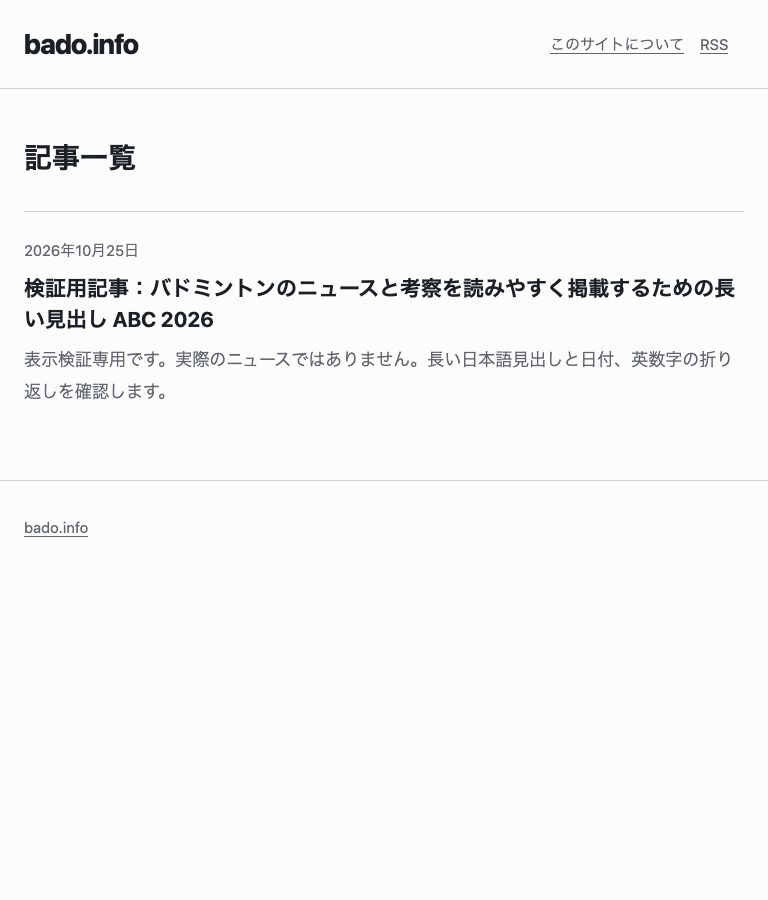
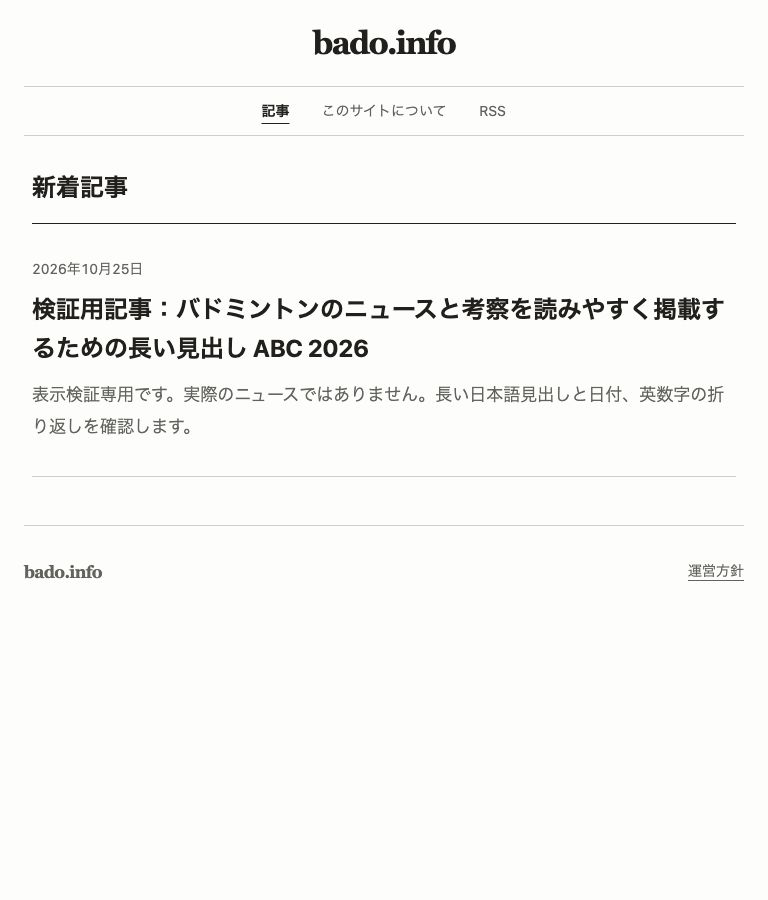
Redesign publication masthead and article typography

diff --git a/src/styles/global.css b/src/styles/global.css
@@ -1,24 +1,24 @@
-@import '@radix-ui/colors/slate.css';
-@import '@radix-ui/colors/teal.css';
+@import '@radix-ui/colors/sand.css';
+@import '@radix-ui/colors/jade.css';
 
 :root {
-  --background: var(--slate-1);
-  --text: var(--slate-12);
-  --muted: var(--slate-11);
-  --border: var(--slate-7);
-  --link: var(--teal-12);
-  --focus: var(--teal-10);
-  --text-small: .9375rem;
+  --background: var(--sand-1);
+  --text: var(--sand-12);
+  --muted: var(--sand-11);
+  --border: var(--sand-7);
+  --link: var(--jade-12);
+  --focus: var(--jade-10);
+  --text-small: .875rem;
   --text-body: 1.0625rem;
-  --text-heading: 1.3125rem;
-  --text-title: 1.75rem;
+  --text-heading: 1.5rem;
+  --text-title: 2.5rem;
   --space-1: 8px;
   --space-2: 16px;
   --space-3: 24px;
   --space-4: 32px;
   --space-5: 48px;
   --page-width: 960px;
-  --reading-width: 720px;
+  --reading-width: 704px;
   --rule: .5px;
   font-family: -apple-system, BlinkMacSystemFont, 'Hiragino Kaku Gothic ProN', Meiryo, sans-serif;
   color: var(--text);
@@ -28,50 +28,65 @@
 
 * { box-sizing: border-box; }
 body { margin: 0; font-size: var(--text-body); }
-a { color: var(--link); text-underline-offset: .2em; overflow-wrap: anywhere; }
+a { color: var(--link); text-underline-offset: .25em; overflow-wrap: anywhere; }
 a:hover { text-decoration-thickness: 2px; }
 :focus-visible { outline: 3px solid var(--focus); outline-offset: 4px; }
-.shell { max-width: var(--page-width); margin-inline: auto; padding-inline: var(--space-4); }
-.site-header { border-bottom: var(--rule) solid var(--border); }
-.header-inner { display: flex; align-items: center; justify-content: space-between; gap: var(--space-3); min-height: 88px; }
-.brand { font-size: var(--text-title); font-weight: 750; letter-spacing: -.04em; color: var(--text); text-decoration: none; }
-nav { display: flex; gap: var(--space-3); flex-wrap: wrap; }
-nav a { display: inline-flex; align-items: center; min-width: 44px; min-height: 44px; font-size: var(--text-small); color: var(--muted); }
-main { padding-block: var(--space-5); }
-h1 { font-size: var(--text-title); margin: 0 0 var(--space-4); }
-h2 { font-size: var(--text-heading); margin: var(--space-4) 0 var(--space-2); }
-h3, h4, h5, h6 { font-size: var(--text-body); margin: var(--space-3) 0 var(--space-2); }
-h1, h2, h3, h4, h5, h6 { line-height: 1.5; overflow-wrap: anywhere; }
+.shell { width: min(var(--page-width), calc(100% - 80px)); margin-inline: auto; }
+.masthead { padding-top: var(--space-4); text-align: center; }
+.wordmark { display: inline-block; margin-bottom: var(--space-3); font: 700 var(--text-title)/1.2 Georgia, 'Times New Roman', serif; letter-spacing: -.055em; color: var(--text); text-decoration: none; }
+.site-nav { display: flex; justify-content: center; flex-wrap: wrap; column-gap: var(--space-4); border-block: var(--rule) solid var(--border); }
+.site-nav a { display: inline-flex; align-items: center; justify-content: center; min-width: 44px; min-height: 48px; color: var(--muted); font-size: var(--text-small); text-decoration: none; }
+.site-nav a:hover, .site-nav a[aria-current=page] { color: var(--text); text-decoration: underline; text-underline-offset: 7px; }
+.site-nav a[aria-current=page] { font-weight: 700; }
+main { max-width: var(--reading-width); padding-block: var(--space-5) 64px; }
+h1, h2, h3, h4, h5, h6 { line-height: 1.6; overflow-wrap: anywhere; }
+h1 { margin: 0 0 var(--space-3); font-size: var(--text-title); letter-spacing: -.025em; text-wrap: balance; }
+h2 { font-size: var(--text-heading); margin: var(--space-5) 0 var(--space-2); }
+h3, h4, h5, h6 { font-size: var(--text-body); margin: var(--space-4) 0 var(--space-2); }
 p { margin: 0 0 var(--space-3); }
 time, .meta { font-size: var(--text-small); color: var(--muted); }
+.section-heading { padding-bottom: var(--space-2); border-bottom: var(--rule) solid var(--text); }
+.section-heading h1 { margin: 0; font-size: var(--text-heading); letter-spacing: 0; }
 .article-list { padding: 0; margin: 0; list-style: none; }
-.article-list li { display: grid; grid-template-columns: 150px minmax(0, 1fr); gap: var(--space-3); border-top: var(--rule) solid var(--border); padding-block: var(--space-3); }
-.article-list h2 { margin: 0 0 var(--space-1); }
+.article-list li { padding-block: var(--space-4); border-bottom: var(--rule) solid var(--border); }
+.article-list time { display: block; margin-bottom: var(--space-1); font-variant-numeric: tabular-nums; }
+.article-list h2 { margin: 0 0 12px; }
 .article-list h2 a { display: block; min-height: 44px; color: var(--text); text-decoration: none; }
 .article-list h2 a:hover { text-decoration: underline; }
 .article-list p { margin: 0; color: var(--muted); }
-.empty { border-block: var(--rule) solid var(--border); padding-block: var(--space-4); color: var(--muted); margin: 0; }
-.reading { max-width: var(--reading-width); margin-inline: auto; }
-.reading > a { display: inline-flex; align-items: center; min-height: 44px; }
-.reading h1 { margin-top: var(--space-2); }
-.prose { overflow-wrap: anywhere; }
-.prose img { max-width: 100%; height: auto; }
-.prose pre { overflow: auto; background: var(--slate-3); padding: var(--space-2); }
+.empty { padding-block: 64px; margin: 0; text-align: center; color: var(--muted); border-bottom: var(--rule) solid var(--border); }
+.back-link { display: inline-flex; align-items: center; min-height: 44px; font-size: var(--text-small); margin-bottom: var(--space-3); }
+.article-header { padding-bottom: var(--space-4); margin-bottom: var(--space-5); border-bottom: var(--rule) solid var(--border); }
+.article-header .meta { display: flex; gap: var(--space-2); flex-wrap: wrap; margin-bottom: var(--space-2); }
+.article-header h1 { margin-bottom: var(--space-3); }
+.article-summary { margin: 0; color: var(--muted); }
+.prose { overflow-wrap: anywhere; line-height: 2; }
+.prose > :first-child { margin-top: 0; }
+.prose img { display: block; max-width: 100%; height: auto; margin-block: var(--space-4); }
+.prose pre { overflow: auto; background: var(--sand-3); padding: var(--space-2); }
 .prose blockquote { margin-inline: 0; padding-inline: var(--space-3); border-left: var(--rule) solid var(--border); color: var(--muted); }
-.sources { border-top: var(--rule) solid var(--border); margin-top: var(--space-5); }
-.sources ul { padding-left: var(--space-3); }
-.site-footer { padding-block: var(--space-3); border-top: var(--rule) solid var(--border); font-size: var(--text-small); }
+.sources { display: grid; grid-template-columns: 80px minmax(0, 1fr); gap: var(--space-3); border-top: var(--rule) solid var(--border); margin-top: 64px; padding-top: var(--space-3); }
+.sources h2 { margin: 0; font-size: var(--text-body); }
+.sources ul { margin: 0; padding-left: var(--space-3); }
+.site-footer { display: flex; align-items: center; justify-content: space-between; padding-block: var(--space-3); border-top: var(--rule) solid var(--border); color: var(--muted); font-size: var(--text-small); }
+.footer-name { font: 700 var(--text-body)/1.2 Georgia, 'Times New Roman', serif; letter-spacing: -.04em; }
 .site-footer a { display: inline-flex; align-items: center; min-height: 44px; color: var(--muted); }
 .skip { position: absolute; top: -100px; left: var(--space-2); background: var(--background); padding: 12px; }
 .skip:focus { top: var(--space-1); }
 
 @media (max-width: 768px) {
-  .shell { padding-inline: var(--space-3); }
-  .article-list li { grid-template-columns: 1fr; gap: var(--space-1); }
-  .header-inner, nav { gap: var(--space-2); }
+  :root { --text-title: 2rem; }
+  .shell { width: calc(100% - 48px); }
+  .site-nav { column-gap: var(--space-3); }
+  .masthead { padding-top: var(--space-3); }
+  main { padding-block: var(--space-4) var(--space-5); }
 }
 @media (max-width: 480px) {
-  .shell { padding-inline: 20px; }
-  .header-inner { align-items: flex-start; flex-direction: column; gap: 0; padding-block: 12px; }
-  main { padding-block: var(--space-4); }
+  :root { --text-heading: 1.375rem; }
+  .shell { width: calc(100% - 40px); }
+  .wordmark { margin-bottom: var(--space-2); }
+  .site-nav { column-gap: var(--space-2); }
+  .article-list li { padding-block: var(--space-3); }
+  .article-header { margin-bottom: var(--space-4); }
+  .sources { grid-template-columns: 1fr; gap: var(--space-2); }
 }
